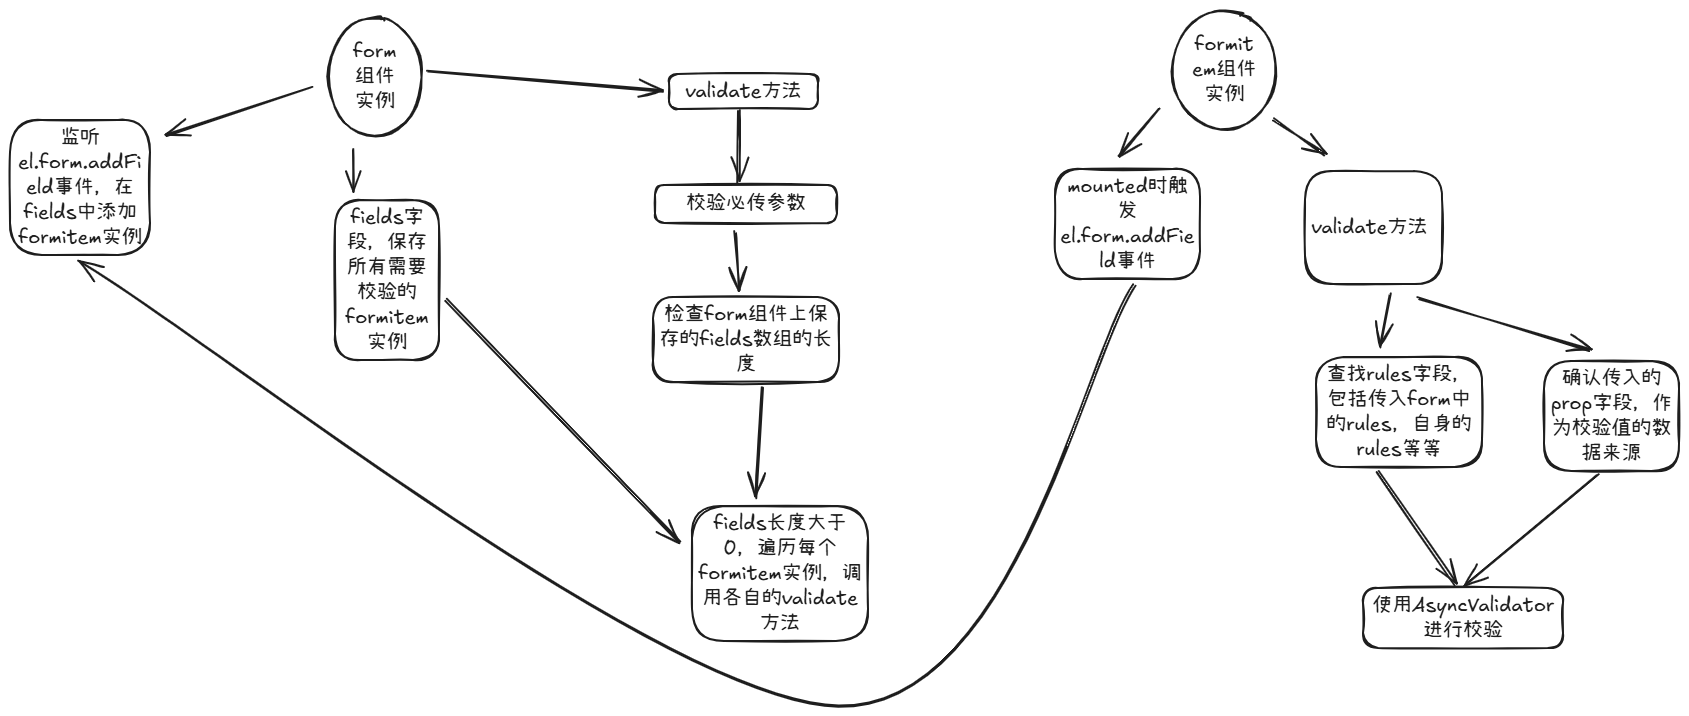
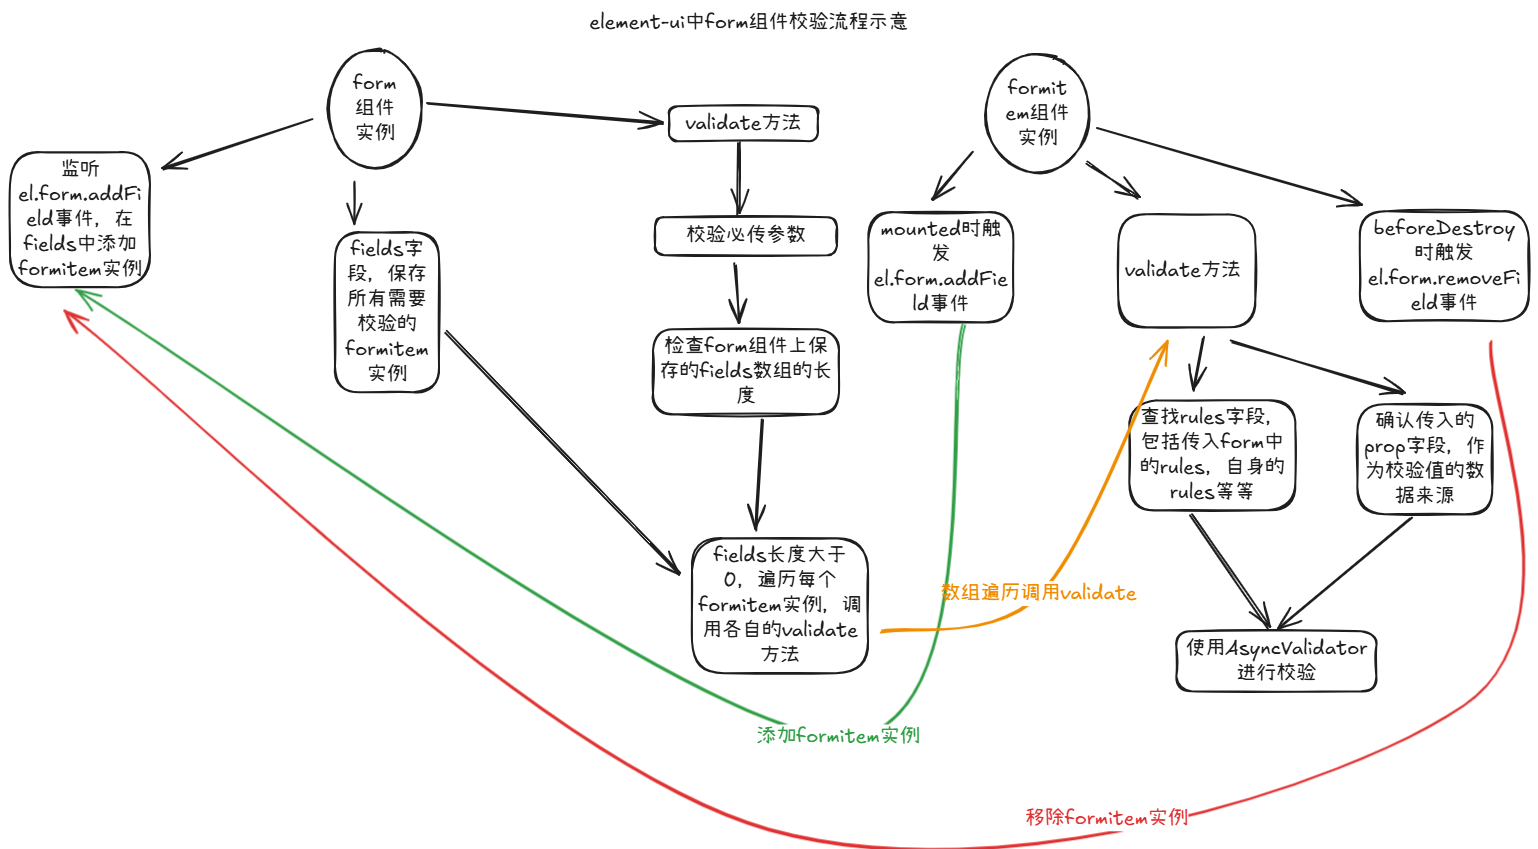
feat: 添加bug2相关

diff --git a/components/modal.vue b/components/modal.vue
@@ -1,0 +1,28 @@
+<template>
+    <n-modal v-model:show="showModal" :mask-closable="false" preset="dialog" title="Dialog" style="width: 600px">
+      <slot></slot>
+    </n-modal>
+</template>
+
+<script setup lang="ts">
+import { NModal } from 'naive-ui'
+import { ref, watch } from 'vue';
+const props = defineProps<{
+  active: any
+}>()
+const showModal = ref(false)
+watch(
+  () => props.active,
+  (val) => {
+    showModal.value = val
+  }
+)
+</script>
+
+<style scoped>
+.carousel-img {
+  width: 100%;
+  height: 440px;
+  object-fit: cover;
+}
+</style>

diff --git a/global-top.vue b/global-top.vue
@@ -16,7 +16,7 @@ const num = computed(() => {
 <template>
   <div v-if="![1, 2, $slidev.nav.total + 1].includes($slidev.nav.currentPage)">
     <div class="top absolute top-0 right-0 p-2">
-      <!-- <img src="/share/giga.png" alt="logo" class="h-6" /> -->
+      <img src="/share/giga.png" alt="logo" class="h-6" />
     </div>
   </div>
 </template>

diff --git a/components/popover.vue b/components/popover.vue
@@ -1,0 +1,13 @@
+<template>
+  <n-popover trigger="click">
+    <template #trigger>
+      <slot name="trigger"></slot>
+    </template>
+    <slot name="default"></slot>
+  </n-popover>
+</template>
+
+<script setup lang="ts">
+import { NPopover } from 'naive-ui';
+
+</script>

diff --git a/pages/share/bug2.md b/pages/share/bug2.md
@@ -2,8 +2,6 @@
 
 第二个问题就相对简单了，因为问题范围已经确定，就是发生在`form`组件中，我们只要从`form`组件的源码入手即可。`element-ui`的表单校验大家都很熟悉了，主要流程是利用`form-item`组件先在template中定义好需要校验的数据字段值还有校验的方法`rules`，最后通过执行`form`组件的`validate`方法，触发校验流程，返回校验结果。所以我们从校验方法的触发开始入手，先来查看`validate`方法的源码
 
-查看`validate`的方法源码可以发现，内部其实非常简单，除了必要的参数的值的校验和提示信息，主要的校验流程只有调用保存的`fields`数组中各自的`validate`方法而已，所以我们排查的范围缩小到了查看`fields`中保存的内容是什么
-
 ```javascript {all|24-34}{maxHeight:'222px'}
 validate(callback) {
   if (!this.model) {
@@ -46,10 +44,51 @@ validate(callback) {
 }
 ```
 
+<v-click>
+
+查看`validate`的方法源码可以发现，内部其实非常简单，除了必要的参数的值的校验和提示信息，主要的校验流程只有调用保存的`fields`数组中各自的`validate`方法而已，所以我们排查的范围缩小到了查看`fields`中保存的内容是什么
+
+</v-click>
+
 ---
 
 这里给出一张`form`组件和`form-item`组件在校验实现上的简略流程图。
 
-<n-image src="/share/element-form.png" />
+<n-image src="/share/element-form.png" class="h-350px" />
 
-前面提到的重点，`form`组件的`fields`数组其实保存的就是`form-item`组件，每个`form-item`在`mounted`之后，会把自身保存在`form`的`fields`中，在`form`校验时，其实就是触发每个表单项的校验方法。
+前面提到的重点，`form`组件的`fields`数组其实保存的就是`form-item`组件，每个`form-item`在`mounted`之后，会把自身保存在`form`的`fields`中，在`form`校验时，其实就是触发每个`form-item`的校验方法。
+
+---
+
+那么我们自然会考虑到，是否是在切换了选项后，原来的`form`组件的`fields`数组发生了变化，原来可用的`form-item`组件被移除了，导致校验方法失效了呢？
+
+<v-clicks>
+
+<div>
+<span>仔细查看<code>form</code>的<code>fields</code>数组中数据的</span>
+<Popover width="600">
+  <template #trigger>
+    <span>变化时机</span>
+  </template>
+  <n-image src="/share/element-form.png" />
+</Popover>
+<span>可以发现，只有在子<code>form-item</code>组件的<code>mounted</code>和<code>unmounted</code>时，才会触发<code>form</code>组件的<code>add</code>和<code>remove</code>方法，修改<code>fields</code>数组的内容。</span>
+</div>
+
+而通过前面的`patch`过程我们已经知道，在切换的过程中并没有发生`form-item`组件的`mounted`和`unmounted`，而是复用了同一个组件实例，所以`fields`数组中的实例其实一直都是存在的，没有发生变化。
+
+所以既然`fields`数组保存的实例没有变化，那么我们就需要去查看`form-item`本身的校验方法是否出了问题。
+
+</v-clicks>
+
+---
+
+还是查看这张流程图，我们重点关注`form-item`的`validate`方法部分：
+
+<n-image src="/share/element-form.png" class="h-350px" />
+
+可以看到`form-item`在每次校验时，都需要去获取校验的`rules`，也就是规则。规则的定义有多种写法，例如
+
+1. 定义在`form`组件的`rules`对象中，通过`key`区分是哪个`form-item`的规则
+2. 直接定义在`form-item`组件的`rules`属性上
+3. 定义在`form-item`的`required`字段上

diff --git a/pages/share/bug1-else-if.md b/pages/share/bug1-else-if.md
@@ -26,7 +26,7 @@ const vnode = [
 
 ---
 
-````md magic-move 
+````md magic-move
 ```ts
 // 旧vnode列表
 const vnode = [
@@ -47,7 +47,7 @@ const vnode = [
 
 ````
 
-````md magic-move 
+````md magic-move
 ```ts
 // 新vnode列表
 const vnode = [
@@ -372,5 +372,3 @@ function render() {
 可以看到两处`_setup.boolean`的判断条件都并到了一个三元表达式中，这样在条件发生切换时，都只会影响一条三元表达式的值，而不会出现多余的注释空节点影响`patch`的结果。
 
 同样的，我们可以把出问题的代码中多的`v-if`改为`v-else-if`，发现问题也同样解决了
-
----

diff --git a/slides.md b/slides.md
@@ -7,15 +7,15 @@ transition: slide-left
 routerMode: 'hash'
 lineNumbers: true
 info: |
-  ## 关于path引发的错误
+  ## 深入理解patch过程
 
 drawings:
   persist: false
 css: unocss
-title: 关于path引发的错误
+title: 深入理解patch过程
 ---
 
-# **关于path引发的错误**
+# **Bug案例原因分享**
 
 <div
 v-motion
@@ -23,7 +23,7 @@ v-motion
 :enter="{ x: 0, opacity: 1,  scale: 1.5, transition: { delay: 100, duration: 2500 } }"
 >
   <span class="color-orange text-xl">
-    Kyon
+    深入理解patch过程
   </span>
 </div>
 

diff --git a/pages/share/bug1.md b/pages/share/bug1.md
@@ -139,7 +139,6 @@ const vnode2 = {
 </div>
 
 ---
-
 layout: two-cols
 layoutClass: gap-16
 ---
